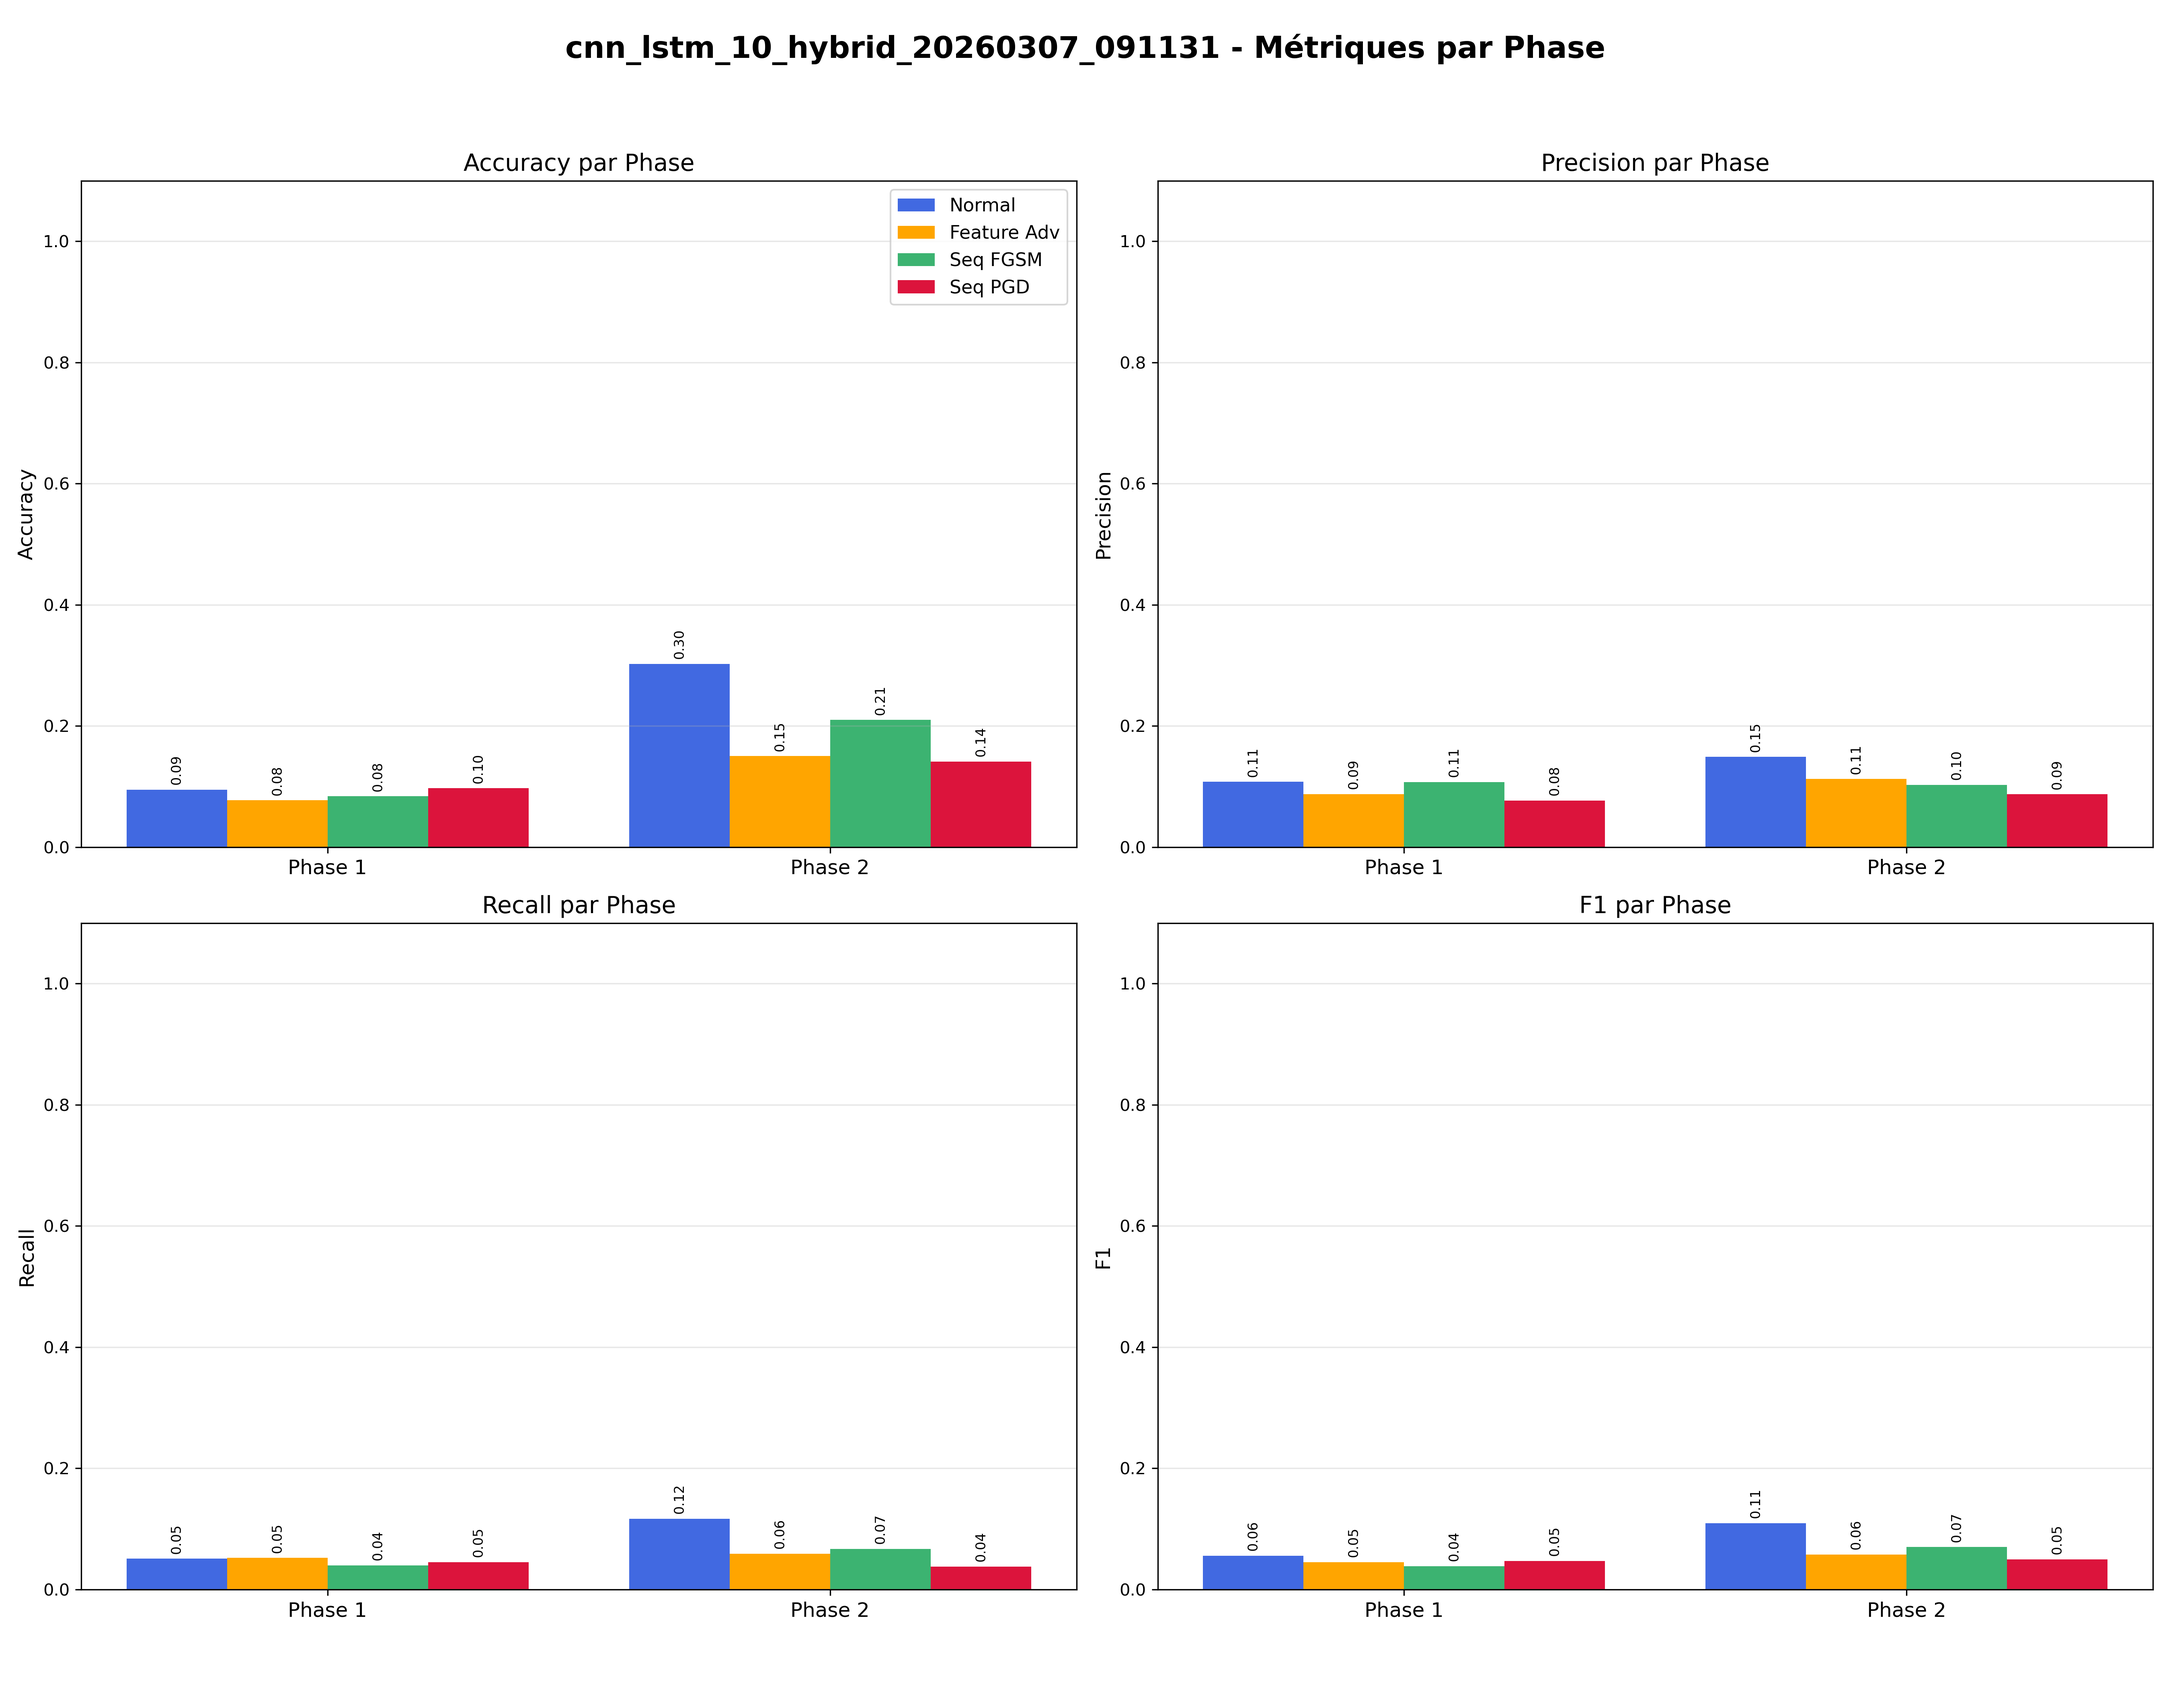
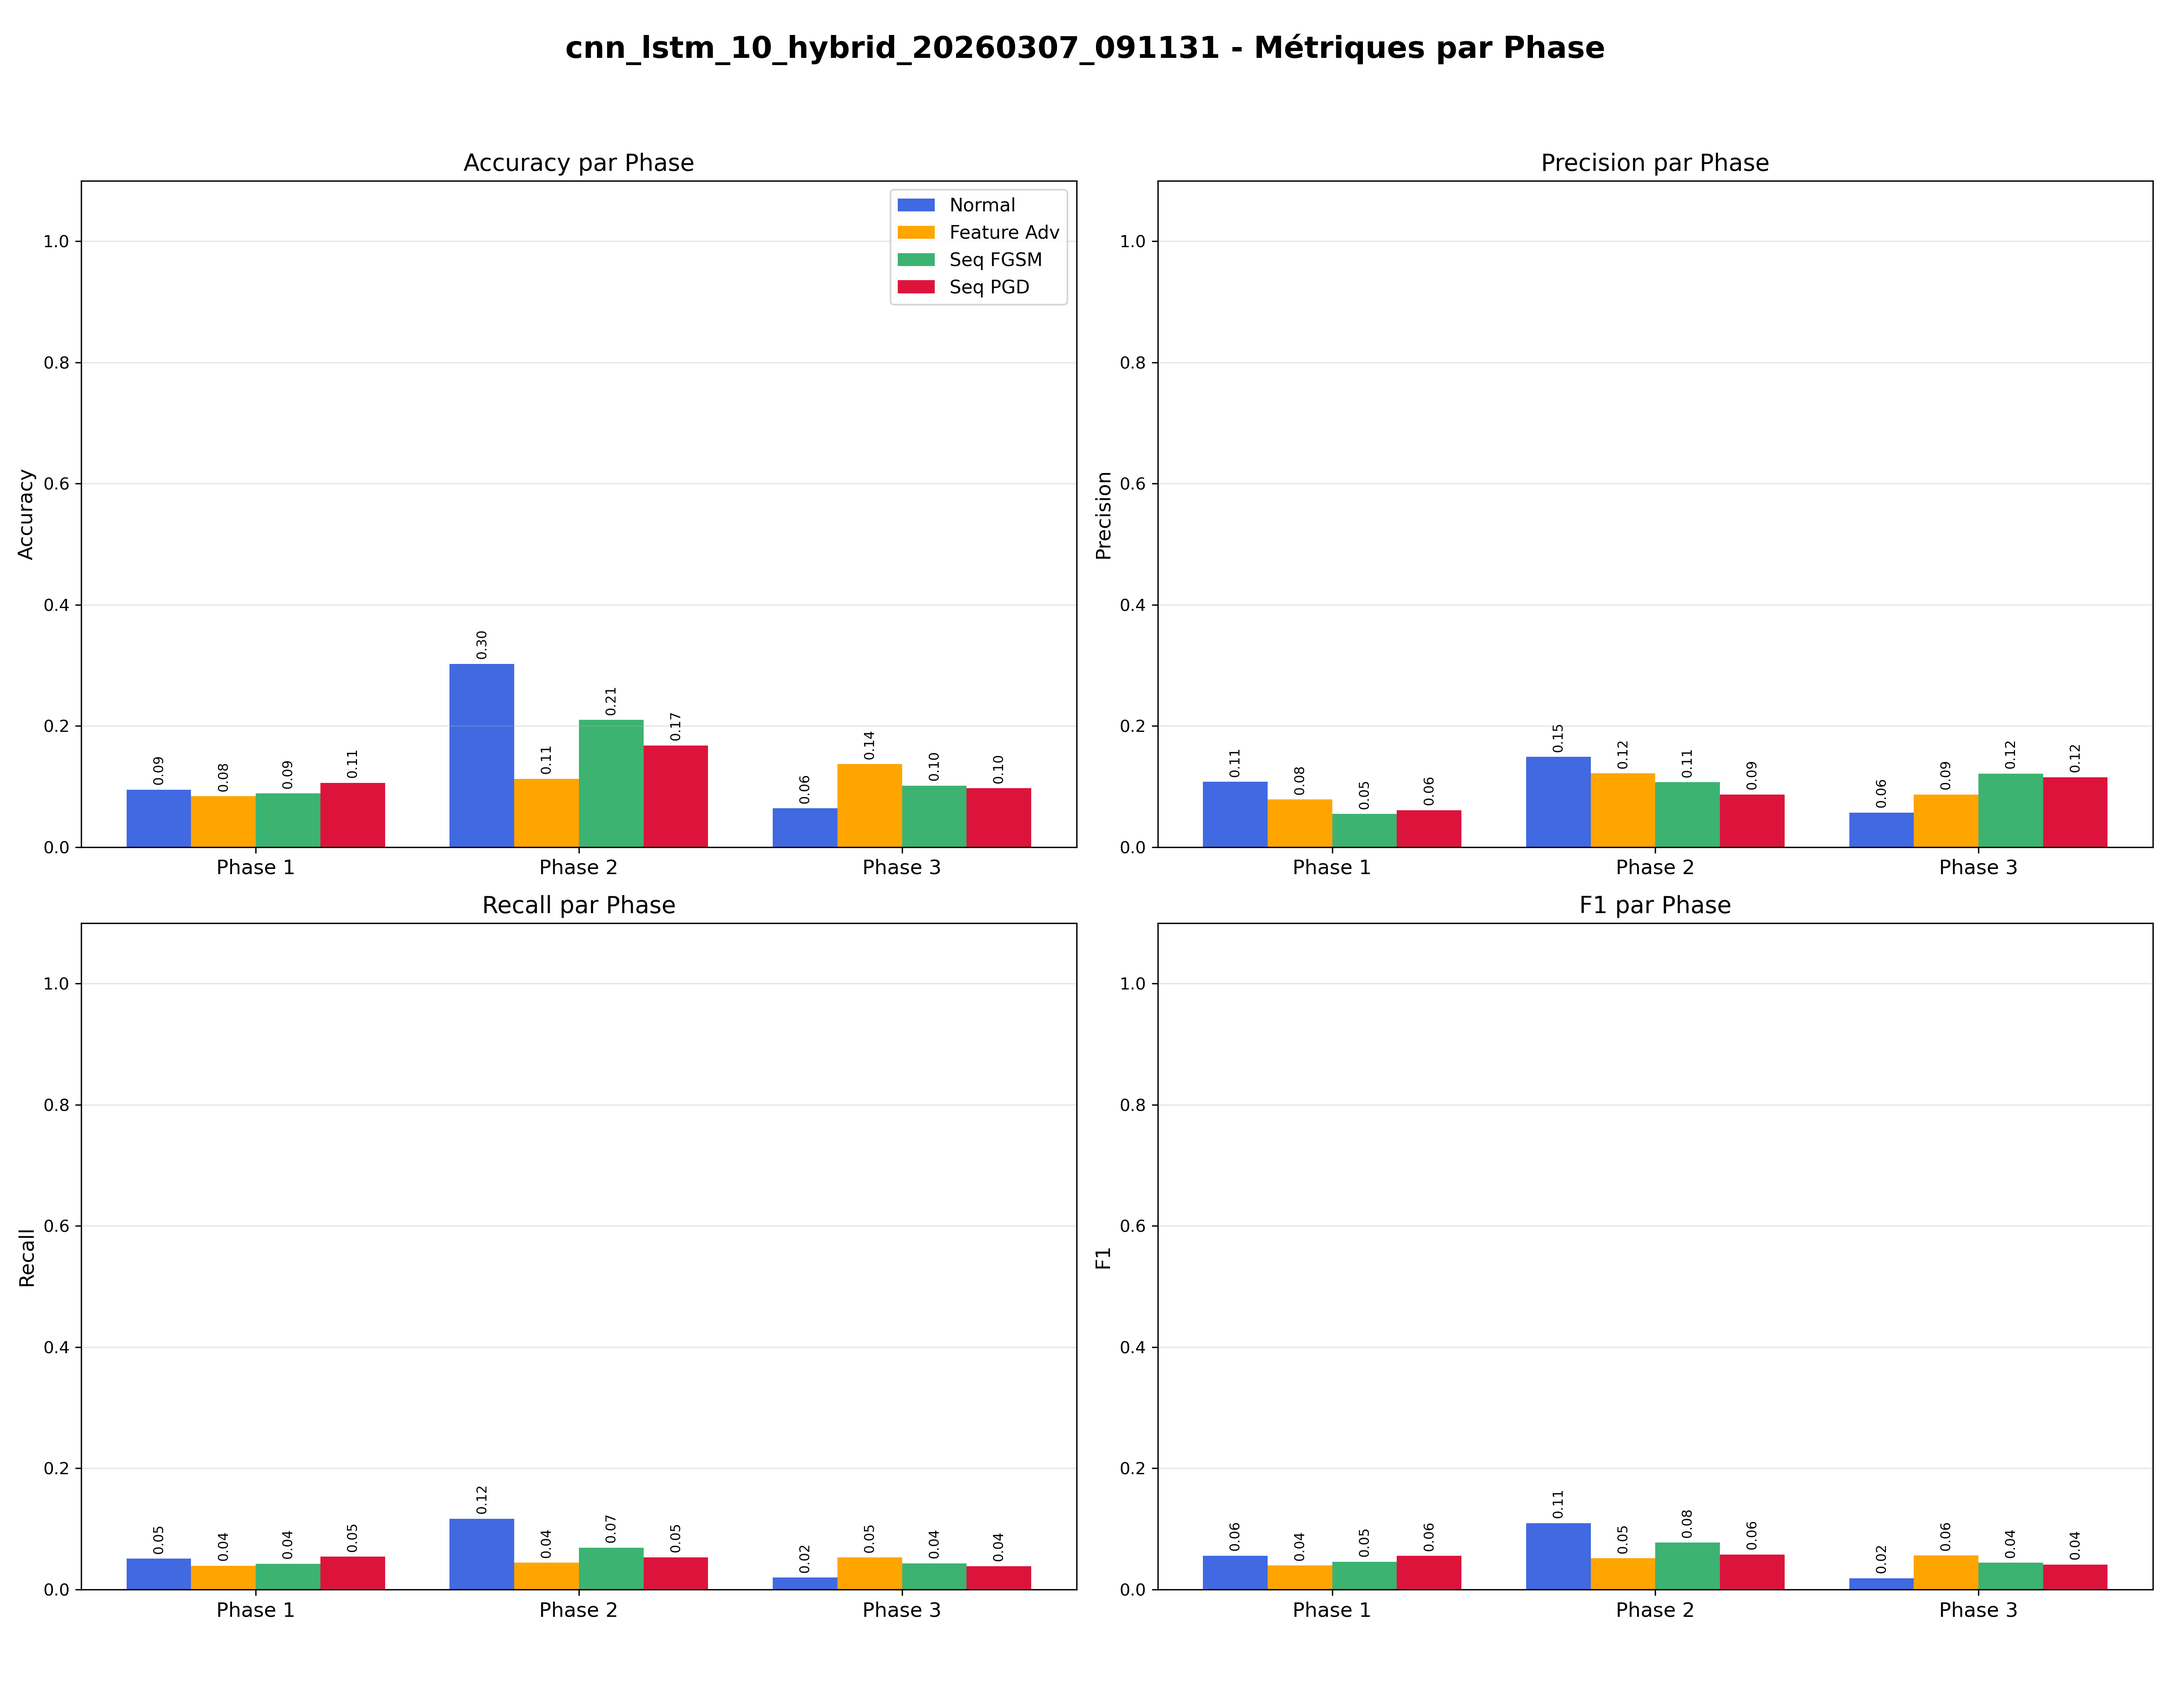
Fix phases inclusion to evaluate best_model.pt as final phase

diff --git a/generate_crash_test_nb.py b/generate_crash_test_nb.py
@@ -231,6 +231,10 @@ code_eval = """def run_crash_test_for_all_models():
             
         # Tri correct : Phase 1, Phase 2, ...
         phase_files.sort(key=lambda x: int(x.split("phase")[1].split(".pt")[0]))
+        
+        # Add the best_model.pt as the final phase
+        if (model_path / "best_model.pt").exists():
+            phase_files.append("best_model.pt")
             
         # Chargement des donnees correspondantes
         print(f"Chargement des données pour seq_length={seq_length}...")
@@ -310,8 +314,11 @@ code_eval = """def run_crash_test_for_all_models():
         phase_metrics = {}
         
         for p_file in phase_files:
-            phase_num = p_file.split("phase")[1].split(".pt")[0]
-            phase_name = f"Phase {phase_num}"
+            if p_file == "best_model.pt":
+                phase_name = f"Phase {len(phase_files)}"
+            else:
+                phase_num = p_file.split("phase")[1].split(".pt")[0]
+                phase_name = f"Phase {phase_num}"
             print(f"\\n--- Évaluation des métriques pour {phase_name} ---")
             
             model = create_model(model_type, input_size, num_classes, seq_length)

diff --git a/evaluate_phases_local.py b/evaluate_phases_local.py
@@ -152,6 +152,10 @@ def run_local_crash_test():
             continue
             
         phase_files.sort(key=lambda x: int(x.split("phase")[1].split(".pt")[0]))
+        
+        # Add the best_model.pt as the final phase
+        if (model_path / "best_model.pt").exists():
+            phase_files.append("best_model.pt")
             
         print(f"Chargement des données depuis {DATA_DIR}...")
         try:
@@ -225,8 +229,11 @@ def run_local_crash_test():
         phase_metrics = {}
         
         for p_file in phase_files:
-            phase_num = p_file.split("phase")[1].split(".pt")[0]
-            phase_name = f"Phase {phase_num}"
+            if p_file == "best_model.pt":
+                phase_name = f"Phase {len(phase_files)}"
+            else:
+                phase_num = p_file.split("phase")[1].split(".pt")[0]
+                phase_name = f"Phase {phase_num}"
             print(f"\\n--- Évaluation des métriques pour {phase_name} ---")
             
             model = create_model(model_type, input_size, num_classes, seq_length)
